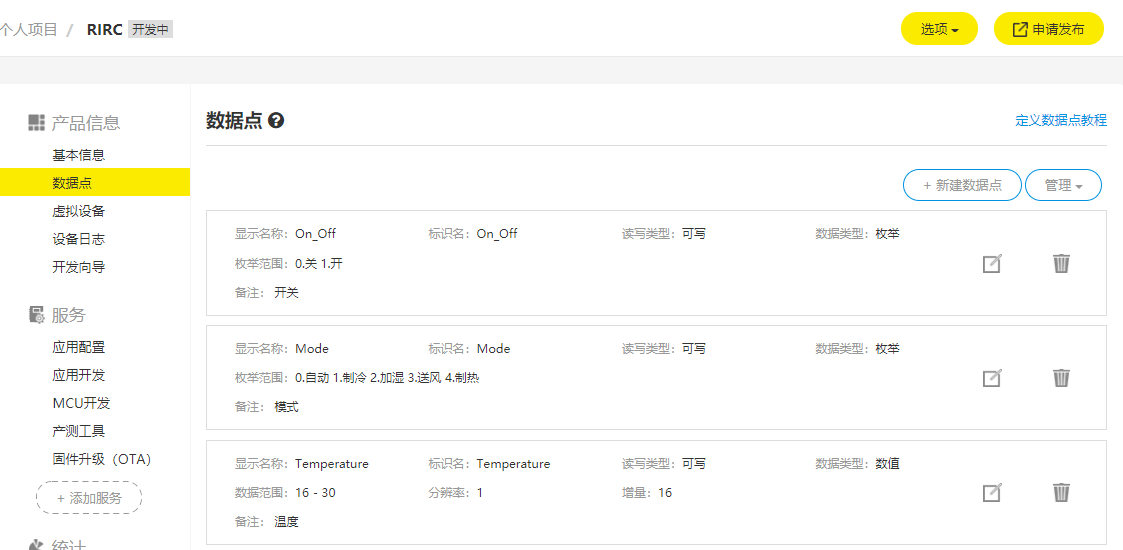
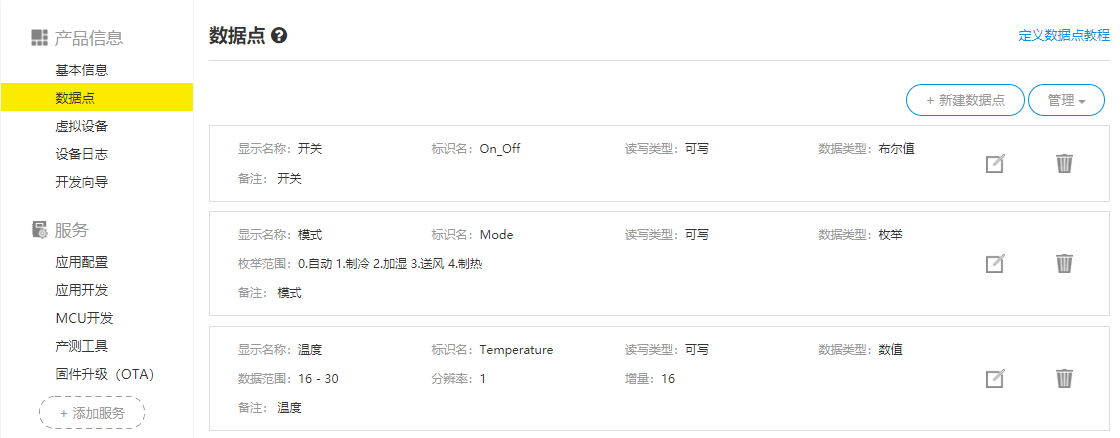
完善部分文档

diff --git a/ESP8266_Proj/readme.md b/ESP8266_Proj/readme.md
@@ -16,6 +16,10 @@
 [如何定义数据点-官方教程](http://docs.gizwits.com/zh-cn/quickstart/datapoint_tutorial.html)  
 <div align=center><img src="./images/定义数据点.png" width="300" /></div>
 
+*我一共添加了3个数据点，开关-布尔值，模式-枚举，温度-数值。这是最新版的数据点及其数据类型，本文档其他部分可能显示其他数据类型，请以上图为准。*  
+*关于枚举：如果某个数据点是枚举类型，且当前值为枚举值1，这时在APP上点击枚举值1，将不会触发事件服务程序，只有点击与当前值不同的值时才会有响应。*
+
+
 ## 虚拟设备
 > 通过虚拟设备模拟真实设备上报数据的行为，可以快速验证接口功能的开发。
 > 用您开发的app或 下载Demo App 绑定虚拟设备，即可对虚拟设备进行远程控制及查看通讯日志。
@@ -64,8 +68,11 @@ make: warning:  Clock skew detected.  Your build may be incomplete.
 
 ## 固件升级(OTA)
 
-[参考链接](http://docs.gizwits.com/zh-cn/deviceDev/WiFiSOC/GoKit3S%E4%BA%8C%E6%AC%A1%E5%BC%80%E5%8F%91.html#%E5%9B%BA%E4%BB%B6%E5%8D%87%E7%BA%A7-OTA)
+第一次下载固件时，需要将ESP8266连接到USB转TTL模块上，再连接到电脑下载4个文件（参考[固件下载](#固件下载)），当设备已经部署完成后，可能无法将ESP8266取下，不方便通过有线方式刷写固件，或者开发者不在设备部署现场，无法亲自操作。  
+这时候就可以使用OTA方式升级固件，你可以按照[OTA固件升级-官方教程](http://docs.gizwits.com/zh-cn/deviceDev/WiFiSOC/GoKit3S%E4%BA%8C%E6%AC%A1%E5%BC%80%E5%8F%91.html#%E5%9B%BA%E4%BB%B6%E5%8D%87%E7%BA%A7-OTA)进行操作，OTA升级固件时只需要下载bin/upgrade/*.bin一个文件即可。  
+*有时可能固件下载完成后，报错：固件验证失败。可能其实是验证成功，ESP8266设备重启即可工作。*  
 
+<div align=center><img src="./images/固件升级.png" width="400" /><img src="./images/OTA.png" width="400" /></div>
 
 # 友情链接
 [机智云-官网](http://www.gizwits.com/)  

diff --git a/README.md b/README.md
@@ -39,26 +39,6 @@ Multisim12.0 + Fritzing0.9.0b
 [ESP8266开发教程](./ESP8266_Proj/readme.md)  
 
 
-# 文件树结构
-.  
-├── README.md  
-├── Carrier_Wave  
-|   ├── readme.md  
-|   └── images/  
-├── Datasheet   
-|   └── ne555.pdf  
-├── ESP8266_Proj  
-|   ├── readme.md  
-|   ├── code_update.md  
-|   ├── code_package/  
-|   └── images/  
-├── Fritzing_Proj  
-|   ├── demo.fzz  
-|   └── images/  
-├── Images/    
-├── Infrared_Protocol/  
-├── Reference/  
-└── Tools/  
 
 # 后续改进
 1. 555定时器的方波不太稳有一个很高的尖峰脉冲，可以在3口加一个104的电解电容，或者用7555替代 [百度知道](https://zhidao.baidu.com/question/617617286604112012.html)

diff --git a/Infrared_Protocol/readme.md b/Infrared_Protocol/readme.md
@@ -1,9 +1,6 @@
 # 红外编码协议
 本项目暂时只研究了格力空调遥控器(YBOF2)的编码协议，其他型号空调及遥控器可能不同，可能需要另行分析。
 
-# 原理
-
-
 # 分析方式
 为了准确模拟所使用空调遥控器的红外编码，需要通过实验进行验证。  
 <div align=center><img src="./images/红外接收模块.png" height="200"/><img src="./images/一体化红外接收头.jpg" height="200"/></div>
